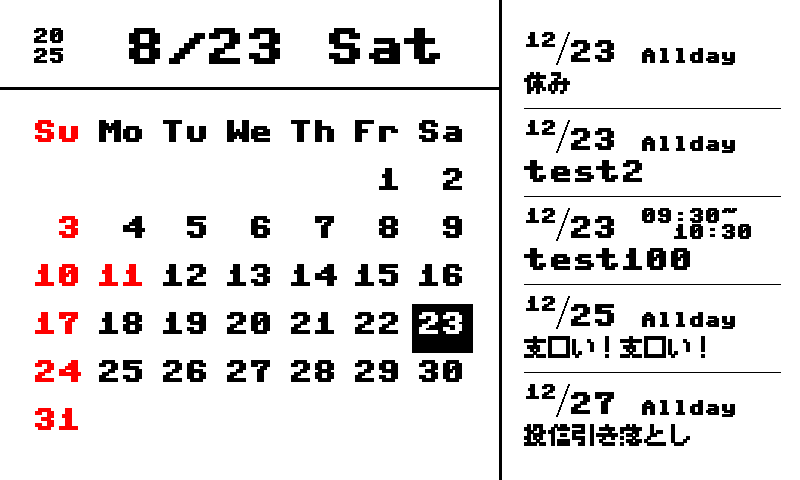
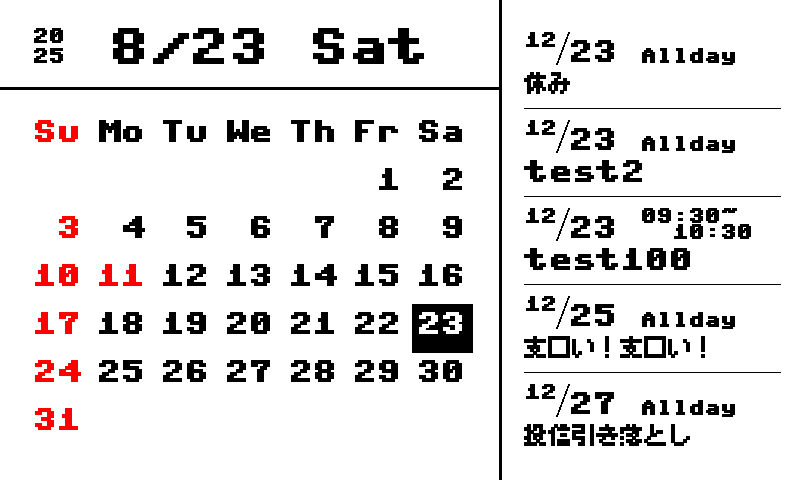
api ok

Changed region(s): [[0.125, 0.0312, 0.5625, 0.1562]]

diff --git a/draw_calendar.py b/draw_calendar.py
@@ -24,6 +24,14 @@ class DrawCalendar():
         self.WEEK = ["Su", "Mo", "Tu", "We", "Th", "Fr", "Sa"]
         self.WEEKDAY = ["Sun", "Mon", "Tue", "Wed", "Thu", "Fri", "Sat"]
 
+    def generate(self):
+        self.draw_days()
+        self.draw_today()
+        self.draw_events()
+        self.draw.line(500, 0, 500, 480, 3)
+        self.draw.line(0, 88, 500, 88, 3)
+        return self.draw.to_bytes()
+
     def draw_days(self):
         y = 120
         for index, weekstr in enumerate(self.WEEK):
@@ -66,7 +74,7 @@ class DrawCalendar():
     def draw_today(self):
         self.draw.text(f"{self.y//100}", 32, 28, 2)
         self.draw.text(f"{self.y%100}", 32, 48, 2)
-        self.draw.text(f"{self.m}/{self.d} {self.WEEKDAY[datetime.isoweekday(self.now)%7]}", 104, 28, 5, align="c", width=9)
+        self.draw.text(f"{self.m}/{self.d} {self.WEEKDAY[datetime.isoweekday(self.now)%7]}", 88, 28, 5, align="c", width=9)
         # self.draw.text(f"{self.WEEKDAY[datetime.isoweekday(self.now)%7]}", 336, 28, 5)
 
     def draw_events(self):
@@ -142,12 +150,12 @@ class DrawCalendar():
         return tmp, result
 
 
-c = DrawCalendar()
-# c.draw._scale()
-c.draw_days()
-c.draw_today()
-c.draw_events()
-c.draw.line(500, 0, 500, 480, 3)
-c.draw.line(0, 88, 500, 88, 3)
+# c = DrawCalendar()
+# # c.draw._scale()
+# c.draw_days()
+# c.draw_today()
+# c.draw_events()
+# c.draw.line(500, 0, 500, 480, 3)
+# c.draw.line(0, 88, 500, 88, 3)
 
-c.draw._save("image.png")
+# c.draw._save("image.png")

diff --git a/main.py b/main.py
@@ -1,6 +1,6 @@
 from fastapi import FastAPI
-import google_calendar as gc
-from misakifont import MisakiFont
+from fastapi.responses import Response
+from draw_calendar import DrawCalendar
 
 app = FastAPI()
 
@@ -8,14 +8,20 @@ app = FastAPI()
 async def root():
     return {"content": "Hello, World!"}
 
-@app.get("/events")
-async def get_events():
-    events = gc.get_calendar_events(gc.SERVICE_ACCOUNT_FILE, gc.CALENDAR_ID)
-    return {"events": events}
+@app.get("/calendar")
+async def send_calendar():
+    c = DrawCalendar()
+    bytes = c.generate()
+    return Response(content=bytes, media_type="application/octet-stream")
 
-@app.get("/font")
-async def get_font(q=None):
-    if len(q) != 1:
-        return {"contsnts": "Bad Request"}
-    mf = MisakiFont()    
-    return {"bitmap": mf.font(ord(q))}
+# @app.get("/events")
+# async def get_events():
+#     events = gc.get_calendar_events(gc.SERVICE_ACCOUNT_FILE, gc.CALENDAR_ID)
+#     return {"events": events}
+
+# @app.get("/font")
+# async def get_font(q=None):
+#     if len(q) != 1:
+#         return {"contsnts": "Bad Request"}
+#     mf = MisakiFont()    
+#     return {"bitmap": mf.font(ord(q))}

diff --git a/google_calendar.py b/google_calendar.py
@@ -20,7 +20,7 @@ def get_calendar_events(service_account_file: str, calendar_id: str):
         now = datetime.datetime.utcnow().isoformat() + 'Z'  # 'Z' indicates UTC time
         time_max = (datetime.datetime.utcnow() + datetime.timedelta(weeks=4)).isoformat() + 'Z'
 
-        print('今後10日間のイベントを取得中...')
+        # print('今後10日間のイベントを取得中...')
         events_result = service.events().list(
             calendarId=calendar_id,
             timeMin=now,
@@ -38,7 +38,7 @@ def get_calendar_events(service_account_file: str, calendar_id: str):
             for event in events:
                 start = event['start'].get('dateTime', event['start'].get('date'))
                 end = event['end'].get('dateTime', event['end'].get('date'))
-                print(f"{start} - {end}: {event['summary']}")
+                # print(f"{start} - {end}: {event['summary']}")
             return events
                 
     except Exception as e:

diff --git a/draw.py b/draw.py
@@ -63,6 +63,12 @@ class Draw():
     def line(self, x1, y1, x2, y2, m=1, color=1):
         self.method[color].line(((x1, y1), (x2, y2)), fill=0, width=m)
     
+    def to_bytes(self):
+        blackbytes = self.blackimage.tobytes()
+        redbytes = self.redimage.tobytes()
+        comb = blackbytes + redbytes
+        return comb
+
     def _save(self, filename):
         merged_image = Image.new('RGB', (self.WIDTH, self.HEIGHT), (255, 255, 255))
         merged_image.paste(self.blackimage)
